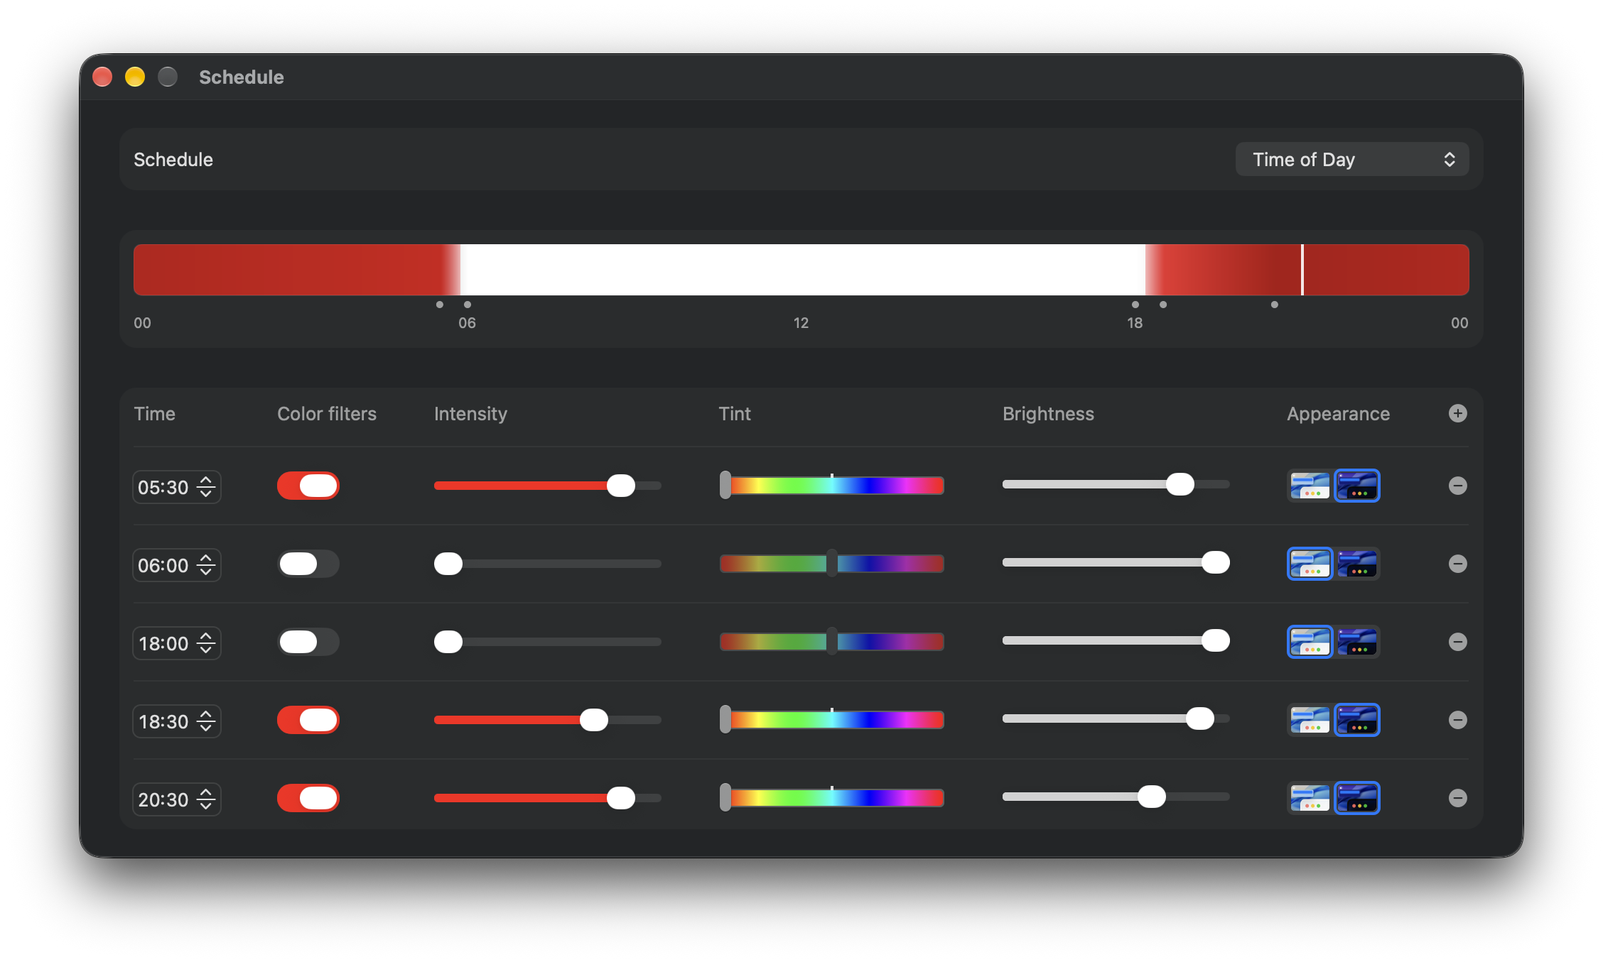
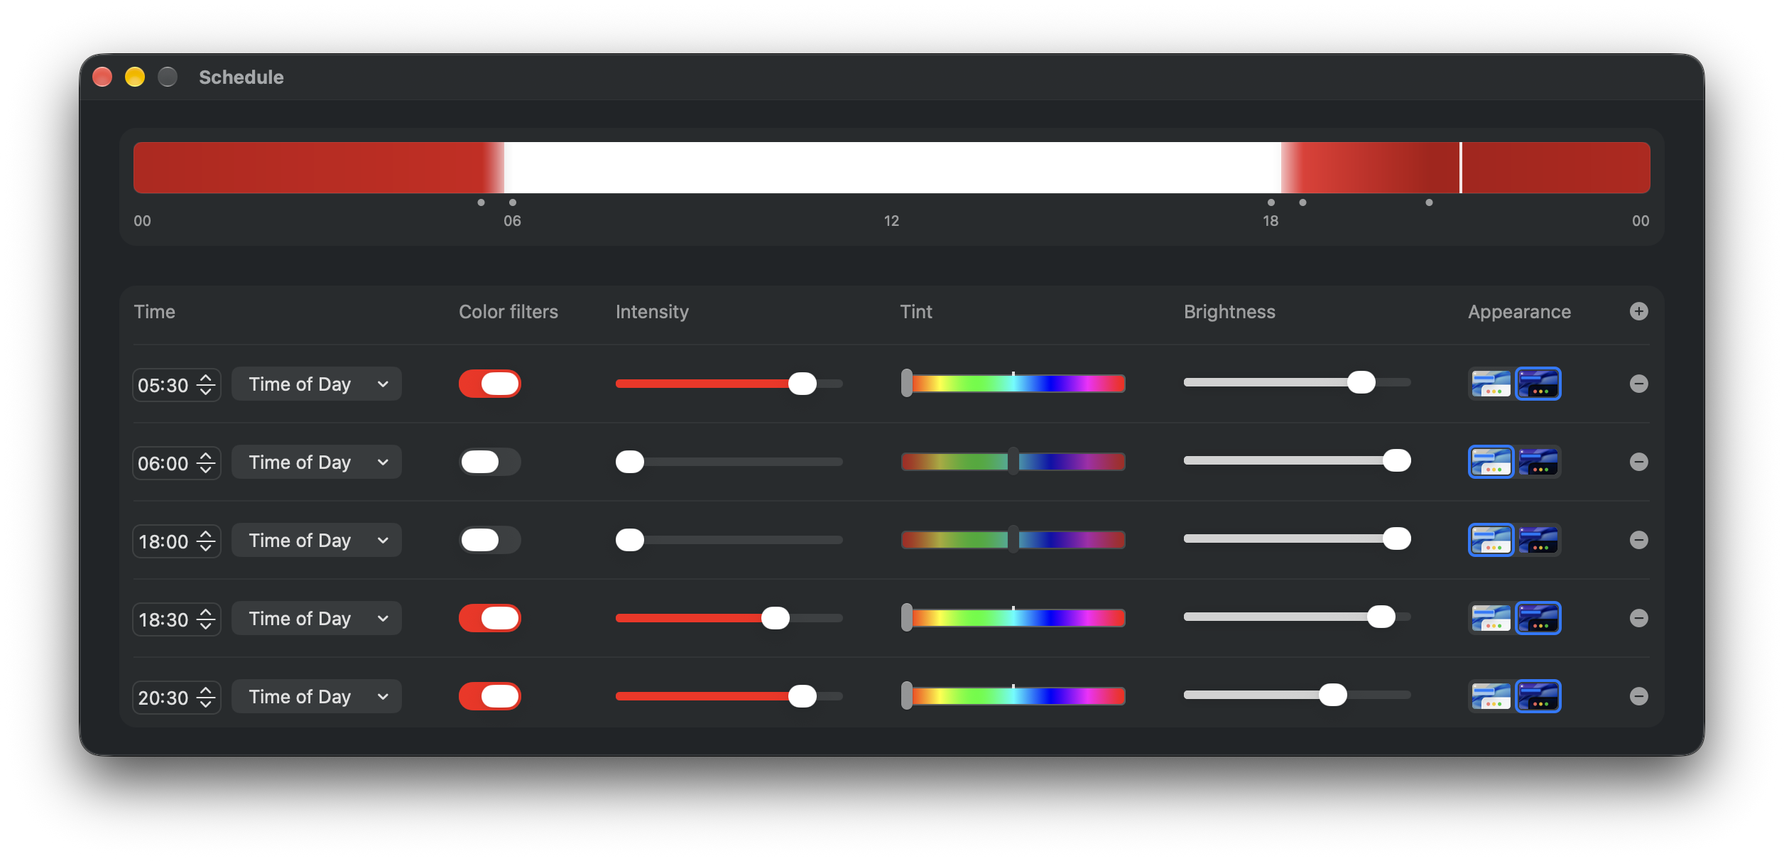
Let each time of the Schedule choose between a clock time and the sun, instead of the Schedule menu choosing for all of them
Each row has a menu beside its time, as Shortcuts' Time of Day automation offers it: Sunrise ▸ and
Sunset ▸ with Shortcuts' times before and after them, and Time of Day for a clock time. So a schedule
can mix them, for example warm from sunset but darkest at 23:00 all year round. Choosing Time of Day
keeps the time where it comes today. A new time follows the sun if the one before it does. Without
sunrise and sunset from Night Shift, a clock time can't be moved to the sun, and the menu says why.

Keyframes saved before this go by the old Schedule setting until they're given a choice of their own,
so every schedule comes at the same times as it did. Debug builds can switch back to the Schedule
menu choosing for every time, with Clock or sun in the Schedule Layout panel. The README's text and
Schedule screenshots follow.

diff --git a/Safelight/Safelight.swift b/Safelight/Safelight.swift
@@ -3199,20 +3199,23 @@ struct ScheduleEditor: View {
         ScrollView {
             VStack(alignment: .leading, spacing: layout.boxSpacing) {
                 // Night Shift's choice of schedule, without its Off, which is the switch in the menu bar's
-                // popover, and with names of its own (SystemStrings.timeOfDay says why)
-                HStack {
-                    Text(SystemStrings.schedule)
-                    Spacer()
-                    Picker(SystemStrings.schedule, selection: $controller.followsSun) {
-                        Text(SystemStrings.timeOfDay).tag(false)
-                        Text(SystemStrings.sunriseAndSunset).tag(true)
-                            .disabled(!controller.hasSunTimes && !controller.followsSun)
+                // popover, and with names of its own (SystemStrings.timeOfDay says why). Only in Debug
+                // builds set to have it choose for every keyframe, rather than each for itself.
+                if !controller.keyframesChooseSun {
+                    HStack {
+                        Text(SystemStrings.schedule)
+                        Spacer()
+                        Picker(SystemStrings.schedule, selection: $controller.followsSun) {
+                            Text(SystemStrings.timeOfDay).tag(false)
+                            Text(SystemStrings.sunriseAndSunset).tag(true)
+                                .disabled(!controller.hasSunTimes && !controller.followsSun)
+                        }
+                        .labelsHidden()
+                        .fixedSize()
+                        .help(controller.hasSunTimes ? "" : SystemStrings.sunsetToSunriseNeedsLocation)
                     }
-                    .labelsHidden()
-                    .fixedSize()
-                    .help(controller.hasSunTimes ? "" : SystemStrings.sunsetToSunriseNeedsLocation)
+                    .scheduleBox(padding: layout.boxPadding)
                 }
-                .scheduleBox(padding: layout.boxPadding)
 
                 if layout.showsDayPreview {
                     ScheduleDayView(schedule: controller.todaysSchedule, displays: brightnessColumns, showsDisplayNames: layout.showsDisplayNames,
@@ -3259,12 +3262,16 @@ struct ScheduleEditor: View {
                             .gridCellUnsizedAxes(.horizontal)
 
                         GridRow {
-                            // Following the sun, the time it comes at today, and when that is in the year
+                            // The time it comes at today, and whether that's a clock time or when it is
+                            // in the year, so long before or after sunrise or sunset. While the Schedule
+                            // menu chooses, only the time following the sun has the menu.
                             HStack(spacing: 8) {
                                 TimeField(label: SystemStrings.time, selection: time(of: keyframe.id), isFocusedOnAppear: keyframe.id == addedKeyframeID)
                                     .environment(\.timeZone, Self.utc)
-                                if controller.followsSun {
-                                    SunTimeMenu(sunTime: keyframe.effectiveSunTime) { sunTime in
+                                if controller.keyframesChooseSun || controller.followsSun {
+                                    SunTimeMenu(sunTime: controller.keyframeFollowsSun(keyframe) ? keyframe.effectiveSunTime : nil,
+                                                offersTimeOfDay: controller.keyframesChooseSun,
+                                                canFollowSun: controller.hasSunTimes || !controller.keyframesChooseSun) { sunTime in
                                         withAnimation {
                                             controller.setSunTime(sunTime, ofKeyframe: keyframe.id)
                                         }
@@ -3371,12 +3378,18 @@ struct ScheduleEditor: View {
     }
 }
 
-/// When a keyframe comes while the Schedule follows the sun, as Shortcuts says it for its Sunrise and
-/// Sunset automations, and its choices of that: at sunrise or sunset, or so long before or after, each
-/// in a submenu of its own.
+/// When a keyframe comes, and its choices of that, as Shortcuts' Time of Day automation offers them
+/// (and Home's automations): at sunrise or sunset, or so long before or after, each in a submenu of its
+/// own, said the way Shortcuts says them, and after those, at a clock time, Time of Day.
 struct SunTimeMenu: View {
-    let sunTime: SunTime
-    let choose: (SunTime) -> Void
+    /// When the keyframe comes before or after sunrise or sunset, or nil if it's at a clock time
+    let sunTime: SunTime?
+    /// Whether Time of Day is a choice, which it isn't while the Schedule menu chooses for every keyframe
+    let offersTimeOfDay: Bool
+    /// Whether the times before and after sunrise and sunset can be chosen, which they can't while
+    /// Night Shift has no sunrise and sunset, unless the keyframe already comes at one of them
+    let canFollowSun: Bool
+    let choose: (SunTime?) -> Void
 
     var body: some View {
         Menu {
@@ -3387,11 +3400,16 @@ struct SunTimeMenu: View {
                         Toggle(SystemStrings.sunTime(choice), isOn: Binding(get: { sunTime == choice }, set: { _ in choose(choice) }))
                     }
                 }
+                .disabled(!canFollowSun && sunTime == nil)
+            }
+            if offersTimeOfDay {
+                Toggle(SystemStrings.timeOfDay, isOn: Binding(get: { sunTime == nil }, set: { _ in choose(nil) }))
             }
         } label: {
-            Text(SystemStrings.sunTime(sunTime))
+            Text(sunTime.map(SystemStrings.sunTime) ?? SystemStrings.timeOfDay)
         }
         .fixedSize()
+        .help(!canFollowSun && sunTime == nil ? SystemStrings.sunsetToSunriseNeedsLocation : "")
     }
 }
 
@@ -3774,9 +3792,19 @@ final class ScheduleLayoutTuner: ObservableObject {
 /// width or space it's named for, and the window grows and shrinks to fit.
 struct ScheduleLayoutPanel: View {
     @ObservedObject var tuner = ScheduleLayoutTuner.shared
+    @ObservedObject private var controller = ColorController.shared
 
     var body: some View {
         Form {
+            // Not part of the layout, so Restore Defaults and the templates leave it be
+            Section {
+                Picker("Clock or sun", selection: $controller.keyframesChooseSun) {
+                    Text("Each time chooses").tag(true)
+                    Text("Schedule menu chooses").tag(false)
+                }
+                .help("Whether each time has a menu of its own to choose between a clock time (Time of Day) and one before or after sunrise or sunset, as in release builds, or the Schedule menu at the top of the window chooses for every time, as it did before")
+            }
+
             Section {
                 Picker("Template", selection: template) {
                     ForEach(ScheduleLayout.templates, id: \.name) { template in
@@ -4362,8 +4390,9 @@ class ColorController: ObservableObject {
 
     /// Whether the Schedule's keyframes come at times before or after sunrise and sunset, which move
     /// through the year (Sunrise and Sunset, like Night Shift's Sunset to Sunrise), rather than at clock
-    /// times (Time of Day). The keyframes keep both, so each schedule is as it was when it's chosen
-    /// again. Saved as it's changed.
+    /// times (Time of Day), as the Schedule menu had it before each keyframe chose for itself. The
+    /// keyframes keep both, so each schedule is as it was when it's chosen again. A keyframe that hasn't
+    /// chosen yet still goes by it, so a schedule comes at the same times as it did. Saved as it's changed.
     @Published var followsSun: Bool = UserDefaults.standard.bool(forKey: ColorController.followsSunDefaultsKey) {
         didSet {
             UserDefaults.standard.set(followsSun, forKey: Self.followsSunDefaultsKey)
@@ -4373,6 +4402,30 @@ class ColorController: ObservableObject {
     }
     private static let followsSunDefaultsKey = "scheduleFollowsSun"
 
+    #if DEBUG
+    /// Whether each keyframe chooses for itself between a clock time and one before or after sunrise or
+    /// sunset, as it does in release builds, or the Schedule menu chooses for all of them, as it did
+    /// before. The Schedule Layout panel switches it, and it's kept between launches.
+    @Published var keyframesChooseSun: Bool = UserDefaults.standard.object(forKey: ColorController.keyframesChooseSunDefaultsKey) as? Bool ?? true {
+        didSet {
+            UserDefaults.standard.set(keyframesChooseSun, forKey: Self.keyframesChooseSunDefaultsKey)
+            schedule.sort(by: isInTimeOrder)
+            applyAutoSettings()
+        }
+    }
+    private static let keyframesChooseSunDefaultsKey = "keyframesChooseSun"
+    #else
+    /// Whether each keyframe chooses for itself between a clock time and one before or after sunrise or
+    /// sunset, rather than the Schedule menu choosing for all of them (which Debug builds can switch to)
+    let keyframesChooseSun = true
+    #endif
+
+    /// Whether a keyframe comes at a time before or after sunrise or sunset, rather than a clock time:
+    /// its own choice, or until it's made one, or while the Schedule menu chooses, the Schedule menu's
+    func keyframeFollowsSun(_ keyframe: ColorKeyframe) -> Bool {
+        keyframesChooseSun ? keyframe.followsSun ?? followsSun : followsSun
+    }
+
     /// Today's sunrise and sunset as Night Shift has them, or while it has none, the last ones it had
     /// (nil if it's never had any).
     @Published private(set) var sunTimes: SunTimes? = SunTimes.today() ?? ColorController.savedSunTimes {
@@ -4380,14 +4433,14 @@ class ColorController: ObservableObject {
             if let data = try? JSONEncoder().encode(sunTimes) {
                 UserDefaults.standard.set(data, forKey: Self.sunTimesDefaultsKey)
             }
-            if followsSun {
+            if schedule.contains(where: keyframeFollowsSun) {
                 schedule.sort(by: isInTimeOrder)
                 applyAutoSettings()
             }
         }
     }
     /// Whether Night Shift has sunrise and sunset for today, which it hasn't while location for time
-    /// zone is off. Without them, Sunrise and Sunset can't be chosen.
+    /// zone is off. Without them, times before or after sunrise and sunset can't be chosen.
     @Published private(set) var hasSunTimes = SunTimes.today() != nil
     private static let sunTimesDefaultsKey = "sunTimes"
 
@@ -4403,15 +4456,15 @@ class ColorController: ObservableObject {
         if let today, today != sunTimes { sunTimes = today }
     }
 
-    /// The minute of the day a keyframe comes at today: its own, or while the Schedule follows the sun,
-    /// so long before or after today's sunrise or sunset
+    /// The minute of the day a keyframe comes at today: its own, or if it follows the sun, so long before
+    /// or after today's sunrise or sunset
     func minute(of keyframe: ColorKeyframe) -> Int {
-        followsSun ? keyframe.effectiveSunTime.minute(in: sunTimes ?? .nominal) : keyframe.minute
+        keyframeFollowsSun(keyframe) ? keyframe.effectiveSunTime.minute(in: sunTimes ?? .nominal) : keyframe.minute
     }
 
     /// The schedule as it runs today, its keyframes at the minutes `minute(of:)` gives them
     var todaysSchedule: [ColorKeyframe] {
-        guard followsSun else { return schedule }
+        guard schedule.contains(where: keyframeFollowsSun) else { return schedule }
         return schedule.map { keyframe in
             var keyframe = keyframe
             keyframe.minute = minute(of: keyframe)
@@ -4531,8 +4584,8 @@ class ColorController: ObservableObject {
         // Which also asks the external monitors for their brightness
         updateBrightness()
 
-        // Loaded in the order of their own times, the keyframes come in today's order while they follow the sun
-        if followsSun {
+        // Loaded in the order of their own times, the keyframes come in today's order while any follow the sun
+        if schedule.contains(where: keyframeFollowsSun) {
             schedule.sort(by: isInTimeOrder)
         }
     }
@@ -4753,8 +4806,9 @@ class ColorController: ObservableObject {
     }
 
     /// Adds a keyframe at the next free half hour, set to what the schedule already has there, and returns
-    /// its ID. While the Schedule follows the sun, it's so long before or after whichever of today's
-    /// sunrise and sunset is nearer.
+    /// its ID. If it follows the sun, it's so long before or after whichever of today's sunrise and sunset
+    /// is nearer. It does if the Schedule menu says so, or while each keyframe chooses, if the one it
+    /// comes after does, as it carries on from that one.
     @discardableResult
     func addKeyframe() -> ColorKeyframe.ID {
         let now = Calendar.current.dateComponents([.hour, .minute], from: Date())
@@ -4765,6 +4819,8 @@ class ColorController: ObservableObject {
 
         let settings = ColorKeyframe.settings(in: todaysSchedule, at: Double(minute))
             ?? ColorKeyframe.Settings(intensity: isColorFilterOn ? intensity : 0, tint: tint, brightness: brightness, displayBrightness: displayBrightness, isDarkAppearance: isDarkAppearance)
+        // The keyframe before it in today's order, which may be the last one, before midnight
+        let followsSun = (todaysSchedule.last { $0.minute < minute } ?? todaysSchedule.last).map(keyframeFollowsSun) ?? self.followsSun
         let keyframe = ColorKeyframe(
             minute: minute,
             isColorFilterOn: settings.isColorFilterOn,
@@ -4773,7 +4829,8 @@ class ColorController: ObservableObject {
             brightness: settings.brightness,
             displayBrightness: settings.displayBrightness,
             isDarkAppearance: settings.isDarkAppearance,
-            sunTime: followsSun ? SunTime(nearestTo: minute, in: sunTimes ?? .nominal) : nil
+            sunTime: followsSun ? SunTime(nearestTo: minute, in: sunTimes ?? .nominal) : nil,
+            followsSun: keyframesChooseSun ? followsSun : nil
         )
         schedule.append(keyframe)
         return keyframe.id
@@ -4785,13 +4842,13 @@ class ColorController: ObservableObject {
         schedule.removeAll { $0.id == id }
     }
 
-    /// Sets a keyframe's time: its own, or while the Schedule follows the sun, the time it comes at today,
-    /// as so long before or after the sunrise or sunset it follows. Setting the same keyframe's time again
-    /// straight after is undone with it.
+    /// Sets a keyframe's time: its own, or if it follows the sun, the time it comes at today, as so long
+    /// before or after the sunrise or sunset it follows. Setting the same keyframe's time again straight
+    /// after is undone with it.
     func setMinute(_ minute: Int, ofKeyframe id: ColorKeyframe.ID) {
         guard let index = schedule.firstIndex(where: { $0.id == id }) else { return }
         timeEdit = .time(id)
-        if followsSun {
+        if keyframeFollowsSun(schedule[index]) {
             let sunTime = schedule[index].effectiveSunTime.moved(to: minute, in: sunTimes ?? .nominal)
             if sunTime != schedule[index].effectiveSunTime { schedule[index].sunTime = sunTime }
         } else {
@@ -4800,11 +4857,23 @@ class ColorController: ObservableObject {
         timeEdit = nil
     }
 
-    /// Sets the time a keyframe comes at while the Schedule follows the sun, as a change to undo by itself.
-    func setSunTime(_ sunTime: SunTime, ofKeyframe id: ColorKeyframe.ID) {
-        guard let index = schedule.firstIndex(where: { $0.id == id }), sunTime != schedule[index].effectiveSunTime else { return }
+    /// Makes a keyframe come so long before or after sunrise or sunset, or with nil, at a clock time,
+    /// which is the time it comes at today, so it stays where it is. Only a keyframe that chooses for
+    /// itself can be given a clock time. A change to undo by itself.
+    func setSunTime(_ sunTime: SunTime?, ofKeyframe id: ColorKeyframe.ID) {
+        guard let index = schedule.firstIndex(where: { $0.id == id }) else { return }
+        var keyframe = schedule[index]
+        if let sunTime {
+            guard sunTime != keyframe.effectiveSunTime || !keyframeFollowsSun(keyframe) else { return }
+            keyframe.sunTime = sunTime
+            if keyframesChooseSun { keyframe.followsSun = true }
+        } else {
+            guard keyframesChooseSun, keyframeFollowsSun(keyframe) else { return }
+            keyframe.minute = minute(of: keyframe)
+            keyframe.followsSun = false
+        }
         endScheduleEdit()
-        schedule[index].sunTime = sunTime
+        schedule[index] = keyframe
         endScheduleEdit()
     }
 
@@ -5073,11 +5142,15 @@ struct ColorKeyframe: Identifiable, Codable, Equatable {
     /// independently. Kept while they aren't, for when they are again.
     var displayBrightness: [String: Float] = [:]
     var isDarkAppearance: Bool
-    /// When the keyframe comes while the Schedule follows the sun, once it's been set. Until then it's
-    /// `effectiveSunTime`, and `minute` is kept for the Time of Day schedule either way.
+    /// When the keyframe comes while it follows the sun, once it's been set. Until then it's
+    /// `effectiveSunTime`, and `minute` is kept for a clock time either way.
     var sunTime: SunTime? = nil
+    /// Whether the keyframe comes at `sunTime` rather than at `minute`, once it's chosen one of them for
+    /// itself. Until then it goes by the Schedule menu, as it did before each keyframe chose
+    /// (`ColorController.keyframeFollowsSun(_:)`).
+    var followsSun: Bool? = nil
 
-    /// When the keyframe comes while the Schedule follows the sun: the time set for it, or until one is,
+    /// When the keyframe comes while it follows the sun: the time set for it, or until one is,
     /// the one of sunrise and sunset its own time is nearer to on a day with them at 6:00 and 18:00, as in
     /// the default schedule, and how long before or after it
     var effectiveSunTime: SunTime {
@@ -5167,7 +5240,8 @@ struct ColorKeyframe: Identifiable, Codable, Equatable {
 
 extension ColorKeyframe {
     /// Keyframes saved before they had an appearance come back Dark where the color filter is on, as
-    /// in the default schedule, and ones saved before displays had a brightness each come back without.
+    /// in the default schedule, ones saved before displays had a brightness each come back without, and
+    /// ones saved before each chose between a clock time and the sun go by the Schedule menu.
     init(from decoder: Decoder) throws {
         let container = try decoder.container(keyedBy: CodingKeys.self)
         id = try container.decode(UUID.self, forKey: .id)
@@ -5179,6 +5253,7 @@ extension ColorKeyframe {
         displayBrightness = try container.decodeIfPresent([String: Float].self, forKey: .displayBrightness) ?? [:]
         isDarkAppearance = try container.decodeIfPresent(Bool.self, forKey: .isDarkAppearance) ?? isColorFilterOn
         sunTime = try container.decodeIfPresent(SunTime.self, forKey: .sunTime)
+        followsSun = try container.decodeIfPresent(Bool.self, forKey: .followsSun)
     }
 }
 
@@ -11108,10 +11183,11 @@ enum SystemStrings {
     static let sunsetToSunriseNeedsLocation = lookup("Night Shift from sunset to sunrise requires location for time zone to be enabled.", in: displaysSettings,
                                                      english: "Night Shift from sunset to sunrise requires location for time zone to be enabled.")
 
-    // The Schedule's two kinds, named for what their times are set by: the clock, as in Shortcuts' Time
-    // of Day automation, or sunrise and sunset, in the Weather app's words. Night Shift's Custom and
-    // Sunset to Sunrise don't fit: both of Safelight's schedules are the user's own, and either one's
-    // times can be anywhere in the day.
+    // The two kinds of time a keyframe can come at, named for what sets them: the clock, as in
+    // Shortcuts' Time of Day automation, which offers it after Sunrise and Sunset, as each keyframe's
+    // menu does, or sunrise and sunset, in the Weather app's words, for the Schedule menu that Debug
+    // builds can have choose for every keyframe instead. Night Shift's Custom and Sunset to Sunrise don't
+    // fit: both kinds are the user's own times, and either can be anywhere in the day.
     static let timeOfDay = lookup("Time of Day", in: shortcuts, english: "Time of Day")
     static let sunriseAndSunset = lookup("Sunrise and Sunset", in: weather, english: "Sunrise and Sunset")
     private static let weather = "/System/Applications/Weather.app"

diff --git a/README.md b/README.md
@@ -24,7 +24,7 @@ It lives in the menu bar.
 - **Brightness keys for every display.** With Adjust Independently on, the brightness keys set the display under the pointer, whichever it is. Catching the keys takes Accessibility permission, which macOS asks for when you turn it on.
 - **Light and Dark too.** Each time of day can switch the system between Light and Dark appearance.
 - **A wallpaper for each.** Choose a picture for Light and another for Dark, and the desktop fades over between them as the appearance switches, whatever switches it: Safelight, System Settings, Control Center or Auto. Pick from macOS's own wallpapers, in System Settings' sections (Dynamic Wallpapers, the aerials' Landscape, Cityscape, Underwater, Earth and Mac, Pictures and Colours), from Photos, or from a file, or shuffle them: System Settings' shuffles, or a set from its Add Photo… menu, a folder, or Favourites or an album in Photos. A dynamic wallpaper gives its Light or Dark picture, and an aerial the picture the desktop shows before it moves. Each has System Settings' options for it: which picture a dynamic wallpaper shows (Automatic, Light or Dark), Macintosh's colour, a colour's gradient, how often a shuffle changes, and how a picture fills the screen (Fill Screen, Fit to Screen, Stretch to Fill Screen or Centre, with a colour around it). Safelight makes them one wallpaper, the way macOS's own Light and Dark wallpapers are made, so macOS does the changing itself, on every Space and display, or with Show on all Spaces off, on the one you're on, where each display can have its own, chosen from a pop-up under the pictures as in System Settings (the popover shows the one whose menu bar you clicked). Aerials don't move, as macOS only lets System Settings set moving ones.
-- **One schedule for all of it.** Add as many times of day as you like. Each sets the color filter, intensity, tint, brightness and appearance, and the filter and brightness fade smoothly between them. The strip along the top previews the whole day. Set Schedule to Sunrise and Sunset and each time follows the sun instead: at sunrise or sunset, or so long before or after, by the sunrise and sunset Night Shift has for where you are, so the schedule moves with the seasons.
+- **One schedule for all of it.** Add as many times of day as you like. Each sets the color filter, intensity, tint, brightness and appearance, and the filter and brightness fade smoothly between them. The strip along the top previews the whole day. Each time is either a time of day or follows the sun: at sunrise or sunset, or so long before or after, by the sunrise and sunset Night Shift has for where you are, so it moves with the seasons. Mix the two, to grow warmer from sunset but be darkest at 23:00 all year round, say.
 - **Looks and speaks like macOS.** The controls are the ones System Settings uses, and every label comes from System Settings' own translations, so Safelight appears in your Mac's language.
 
 <p align="center">
